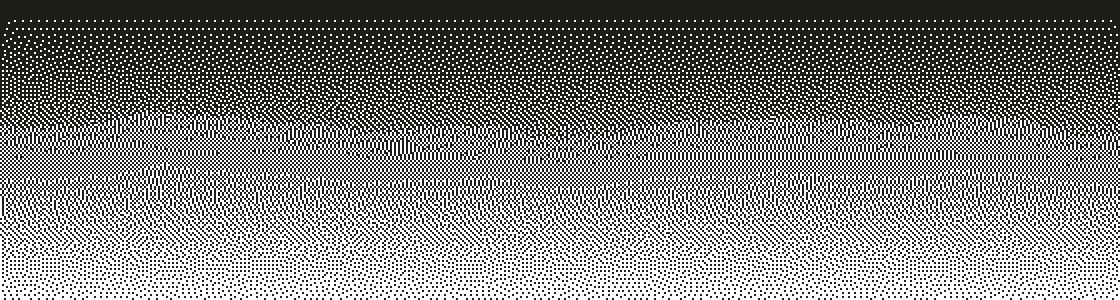
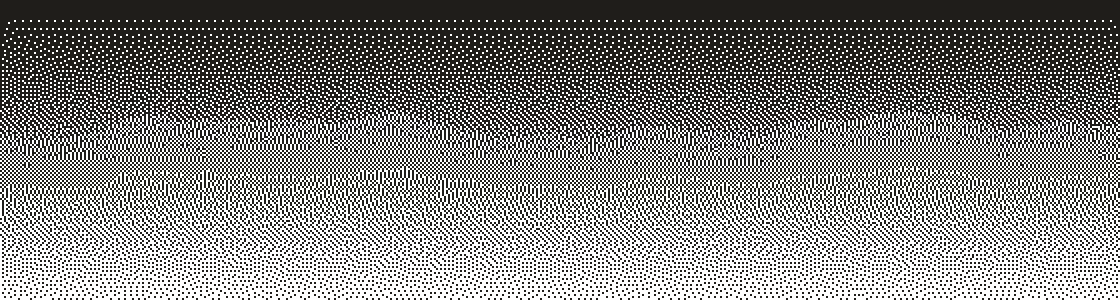
feat: some small updates

Changed region(s): [[0.0, 0.36, 1.0, 1.0]]

diff --git a/index.html b/index.html
@@ -10,8 +10,6 @@
     <link rel="stylesheet" href="assets/app.css" />
     <link rel="shortcut icon" href="assets/favicon.ico" type="image/x-icon" />
 
-    <!-- analytics -->
-    <!-- <script defer src="https://murmur.kunze.cc/script.js" data-website-id="4c5c4cbd-847f-4018-98ef-6150d88e5d59"></script> -->
 
     <!-- katex rendering -->
     <link rel="stylesheet" href="https://cdn.jsdelivr.net/npm/katex@0.13.13/dist/katex.min.css"
@@ -62,7 +60,9 @@
                     <a class="title" href="https://arxiv.org/abs/2607.03201" target="_blank" rel="noopener noreferrer">
                         Deriving Benchmarking Datasets from Long-Form Recordings: Challenges and Opportunities
                     </a>
-                    <span class="meta authors">K. K. Sheth, L. Borst, <b>T. Kunze</b>, M. Lavechin, O. Räsänen, S.
+                    <span class="meta authors">K. K. Sheth, L. Borst, <b>T. Kunze</b>,
+                        <a href="https://marvinlvn.github.io/" target="_blank" rel="noopener noreferrer">M.
+                            Lavechin</a>, O. Räsänen, S.
                         Tsuji, L. Peurey, A. Bourrée, A. Cristia</span>
                     <span class="venue">Interspeech 2026</span>
                     <div class="links">
@@ -79,7 +79,9 @@
                     <a class="title" href="https://arxiv.org/abs/2606.01134" target="_blank" rel="noopener noreferrer">
                         Context-aware child-directed speech detection from long-form recordings
                     </a>
-                    <span class="meta authors">T. Charlot, <b>T. Kunze</b>, K. K. Sheth, A. Cristia, M. Lavechin</span>
+                    <span class="meta authors">T. Charlot, <b>T. Kunze</b>, K. K. Sheth, A. Cristia,
+                        <a href="https://marvinlvn.github.io/" target="_blank" rel="noopener noreferrer">M.
+                            Lavechin</a></span>
                     <span class="venue">Interspeech 2026</span>
                     <div class="links">
                         <a href="https://github.com/LAAC-LSCP/addressee" target="_blank"
@@ -99,7 +101,9 @@
                         Long-Form Recordings
                     </a>
                     <span class="meta authors">T. Charlot, <b>T. Kunze</b>, <a href="https://mpoli.fr/" target="_blank"
-                            rel="noopener noreferrer">M. Poli</a>, A. Cristia, E. Dupoux and M. Lavechin</span>
+                            rel="noopener noreferrer">M. Poli</a>, A. Cristia, E. Dupoux and
+                        <a href="https://marvinlvn.github.io/" target="_blank" rel="noopener noreferrer">M.
+                            Lavechin</a></span>
                     <span class="venue">Interspeech 2026</span>
                     <div class="links">
                         <a href="https://github.com/LAAC-LSCP/VTC" target="_blank" rel="noopener noreferrer">code</a>
@@ -119,7 +123,9 @@
                         Classifier
                     </a>
                     <span class="meta authors"><b>T. Kunze</b>, M. Metais, H. Titeux, L. Elbert, J. Coffey, E. Dupoux,
-                        A. Cristia and M. Lavechin</span>
+                        A. Cristia and
+                        <a href="https://marvinlvn.github.io/" target="_blank" rel="noopener noreferrer">M.
+                            Lavechin</a></span>
                     <span class="venue">Interspeech 2025</span>
                     <div class="links">
                         <a href="https://www.isca-archive.org/interspeech_2025/kunze25_interspeech.pdf" target="_blank"
@@ -143,7 +149,9 @@
                         Fifteen Years of Child-Centered Long-Form Recordings: Promises, Resources, and Remaining
                         Challenges to Validity
                     </a>
-                    <span class="meta authors">L. Peurey, M. Lavechin, <b>T. Kunze</b>, M. Khentout, L. Gautheron, E.
+                    <span class="meta authors">L. Peurey,
+                        <a href="https://marvinlvn.github.io/" target="_blank" rel="noopener noreferrer">M.
+                            Lavechin</a>, <b>T. Kunze</b>, M. Khentout, L. Gautheron, E.
                         Dupoux and A. Cristia</span>
                     <span class="venue">Interspeech 2025</span>
                     <div class="links">

diff --git a/assets/app.css b/assets/app.css
@@ -1,10 +1,10 @@
-/* =========================================================================
-   takun.org — "field notebook / riso" redesign
-   Paper & ink, one oxblood accent, mono utility labels, dithered decoration.
-   ========================================================================= */
+/*  ========================================================================
+    takun.org — "field notebook / riso" redesign
+    Paper & ink, one oxblood accent, mono utility labels, dithered decoration.
+    ======================================================================== */
 
 :root {
-    --paper: #f4f0e6;
+    --paper: #f4f0f0;
     --paper-2: #ece7d9;
     --ink: #1f1d1a;
     --ink-soft: #4a463f;

diff --git a/tools/gen_dither.py b/tools/gen_dither.py
@@ -44,8 +44,8 @@ PAPERS = [
     ("babyhubert", ["self-supervised", "speech", "child"]),
     ("vtc-challenges", ["speech", "benchmark", "child"]),
     ("fifteen-years-longform", ["longform", "child", "benchmark"]),
-    ("searching-search-spaces", ["evolution", "self-supervised"]),
-    ("analogies-sentences", ["analogy", "speech"]),
+    ("searching-search-spaces", ["evolution"]),
+    ("analogies-sentences", ["analogy"]),
 ]
 
 SIZE = 56  # base resolution of a fingerprint (upscaled x2 on save)
@@ -300,8 +300,8 @@ def make_hero(w=560, h=150, seed=11):
 
 
 if __name__ == "__main__":
-    make_hero()
+    make_hero(seed=2)
     for slug, tags in PAPERS:
-        make_fingerprint(slug, tags)
+        make_fingerprint(slug, tags, SIZE)
         print(f"{slug:26s} <- {', '.join(tags)}")
     print("done ->", OUT)